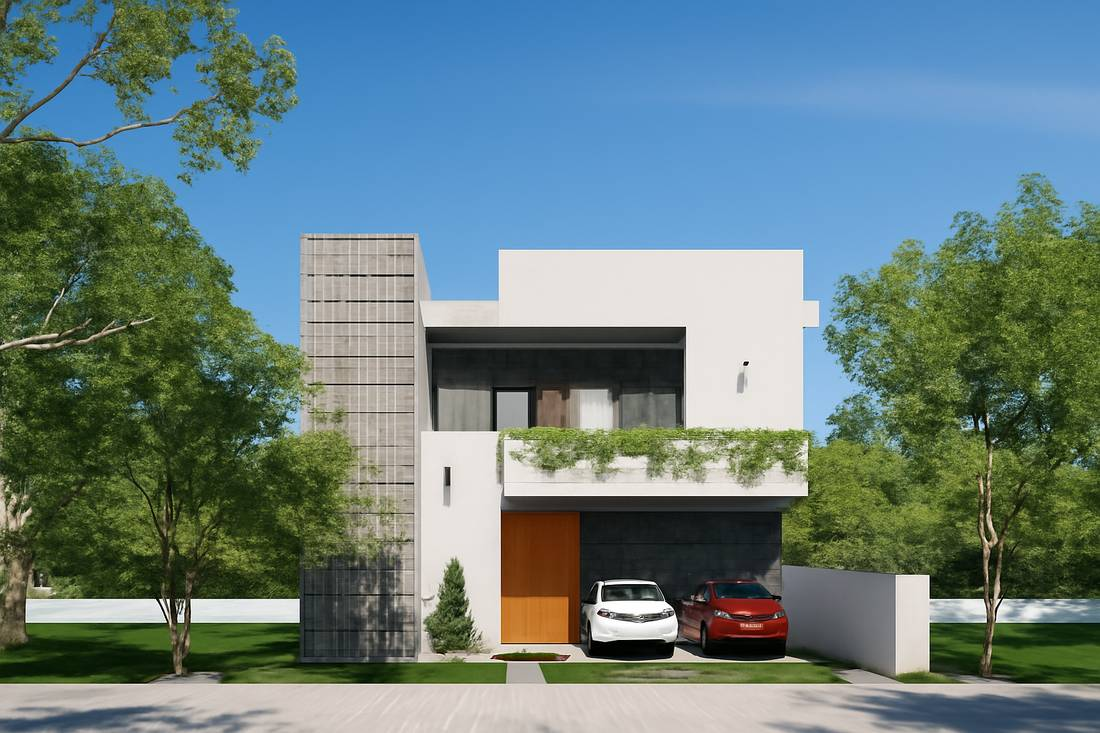
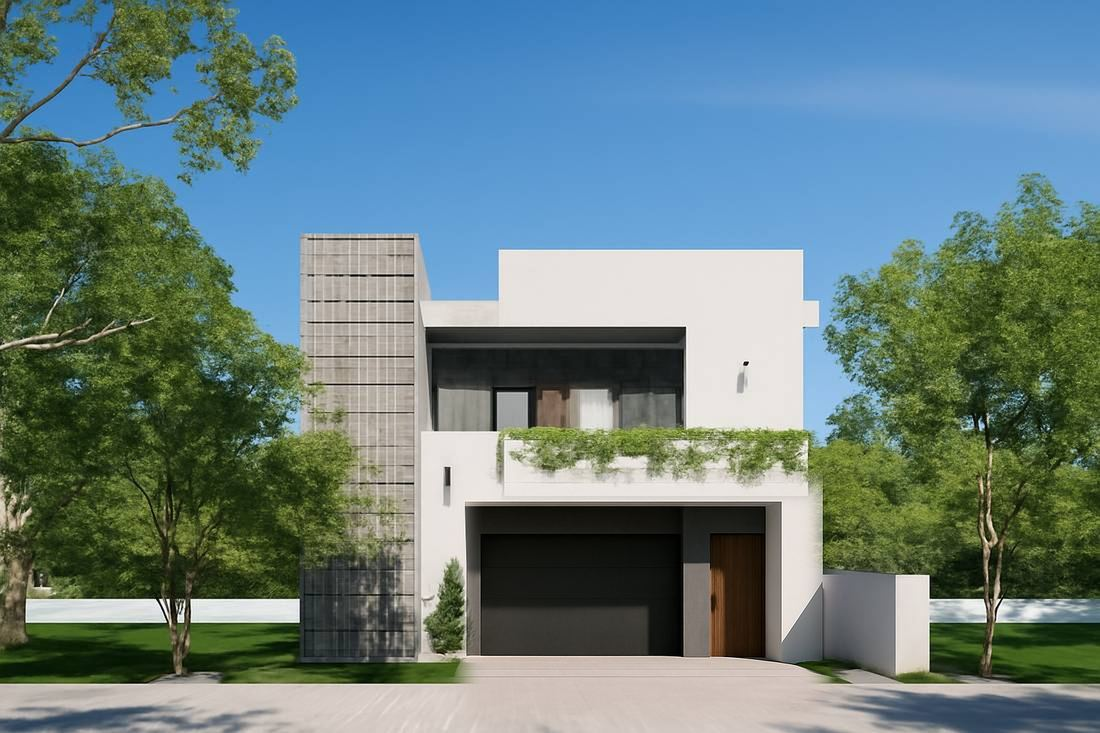
Pantalla 1: render arriba del pliegue + hero sin autos (composite) + kicker universal
- Revertido el kicker a "Arquitectura atemporal · Hermosillo, Sonora" (el lead
  magnet llega de varios medios, no solo del anuncio "elefante blanco" — decisión
  de Alejandro). Todo lo demás de la P1 se conserva.
- Render del hero movido ENTRE el subtítulo y el botón (8/9 expertos): ahora se
  ve arriba del pliegue en móvil; altura reducida a 175px en móvil.
- Hero sin los 2 autos compactos: gpt-image quitó los autos y se hizo COMPOSITE
  sobre la mona ORIGINAL (torre de celosía y fachada intactas; solo se reemplazó
  la zona de la cochera) → cochera limpia, más premium.

Verificado en móvil (layout); node --check OK; sin errores de consola.
Nota: la imagen mona conserva el nombre, así que un navegador que ya la vio puede
necesitar hard-refresh para ver la versión sin autos.

Changed region(s): [[0.4018, 0.6303, 0.7727, 0.9604]]

diff --git a/index.html b/index.html
@@ -59,6 +59,7 @@
   .card.sel::after{content:'✓';position:absolute;top:10px;right:12px;width:22px;height:22px;background:var(--oro);color:#fff;border-radius:50%;display:flex;align-items:center;justify-content:center;font-size:12px;}
   .card .visual{height:150px;}
   .hero-img{height:clamp(200px,32vw,300px);margin-top:30px;border:1px solid var(--linea);background:#2b2b2b url("img/fachada-mona.jpg") center 45%/cover no-repeat;}
+  @media(max-width:600px){.hero-img{height:175px;margin-top:18px;}}
   .card-vermas{border-style:dashed;}
   .card .body{padding:14px 16px 16px;}
   .card .body h3{font-family:Georgia,serif;font-size:16px;font-weight:normal;margin-bottom:4px;}
@@ -230,13 +231,13 @@
 <main>
 
   <section class="pantalla activa" data-p="0">
-    <div class="kicker" data-txt="p0_kicker">Sin elefantes blancos · Hermosillo, Sonora</div>
+    <div class="kicker" data-txt="p0_kicker">Arquitectura atemporal · Hermosillo, Sonora</div>
     <h1 data-txt="p0_titulo">Diseña la casa que <em>no pasa de moda</em>.</h1>
     <p class="sub" data-txt="p0_sub3">En 90 segundos: eliges con un click y ves tus metros aproximados al instante. Tu rango de inversión llega a tu correo.</p>
+    <div class="hero-img" role="img" aria-label="Residencia de autor Aurum"></div>
     <button class="btn" data-txt="p0_btn" onclick="ir(1)" style="width:100%;max-width:460px;box-sizing:border-box;">Diseñar mi próxima residencia →</button>
     <p class="candado" style="margin-top:10px;" data-txt="p0_micro">Gratis y sin compromiso · lo revisa un arquitecto, no un algoritmo.</p>
     <p class="candado" style="margin-top:16px;" data-txt="p0_prueba">+75 familias de Hermosillo ya diseñaron su residencia con Aurum.</p>
-    <div class="hero-img" role="img" aria-label="Residencia de autor Aurum"></div>
   </section>
 
   <section class="pantalla" data-p="1">
@@ -453,7 +454,7 @@ const TEXTOS = {
   cta_agenda_url:"https://calendar.google.com/calendar/appointments/schedules/AcZssZ1Ya91w0DLmmmNiykdwgq3KBlb_r1AvOQ8TThFxhjJSq44pbK43hRZQylYvS1LScMTKn0sJejdp?gv=true", /* página de citas de Google Calendar; editable desde el Sheet */
   cta_agenda_label:"Agendar mi sesión →",
 
-  p0_kicker:"Sin elefantes blancos · Hermosillo, Sonora",
+  p0_kicker:"Arquitectura atemporal · Hermosillo, Sonora",
   p0_titulo:"Diseña la casa que <em>no pasa de moda</em>.",
   p0_sub3:"En 90 segundos: eliges con un click y ves tus metros aproximados al instante. Tu rango de inversión llega a tu correo.",
   p0_btn:"Diseñar mi próxima residencia →",
@@ -642,7 +643,7 @@ const S = {
    la pestaña TEXTOS WEB (se aplica al final de aplicarTextos), así que la portada
    se edita AQUÍ, no en el Sheet. Para reactivar un A/B en el futuro, ver git. */
 const PORTADA={
-  p0_kicker:"Sin elefantes blancos · Hermosillo, Sonora",
+  p0_kicker:"Arquitectura atemporal · Hermosillo, Sonora",
   p0_titulo:"Diseña la casa que <em>no pasa de moda</em>.",
   p0_sub3:"En 90 segundos: eliges con un click y ves tus metros aproximados al instante. Tu rango de inversión llega a tu correo.",
   p0_btn:"Diseñar mi próxima residencia →",